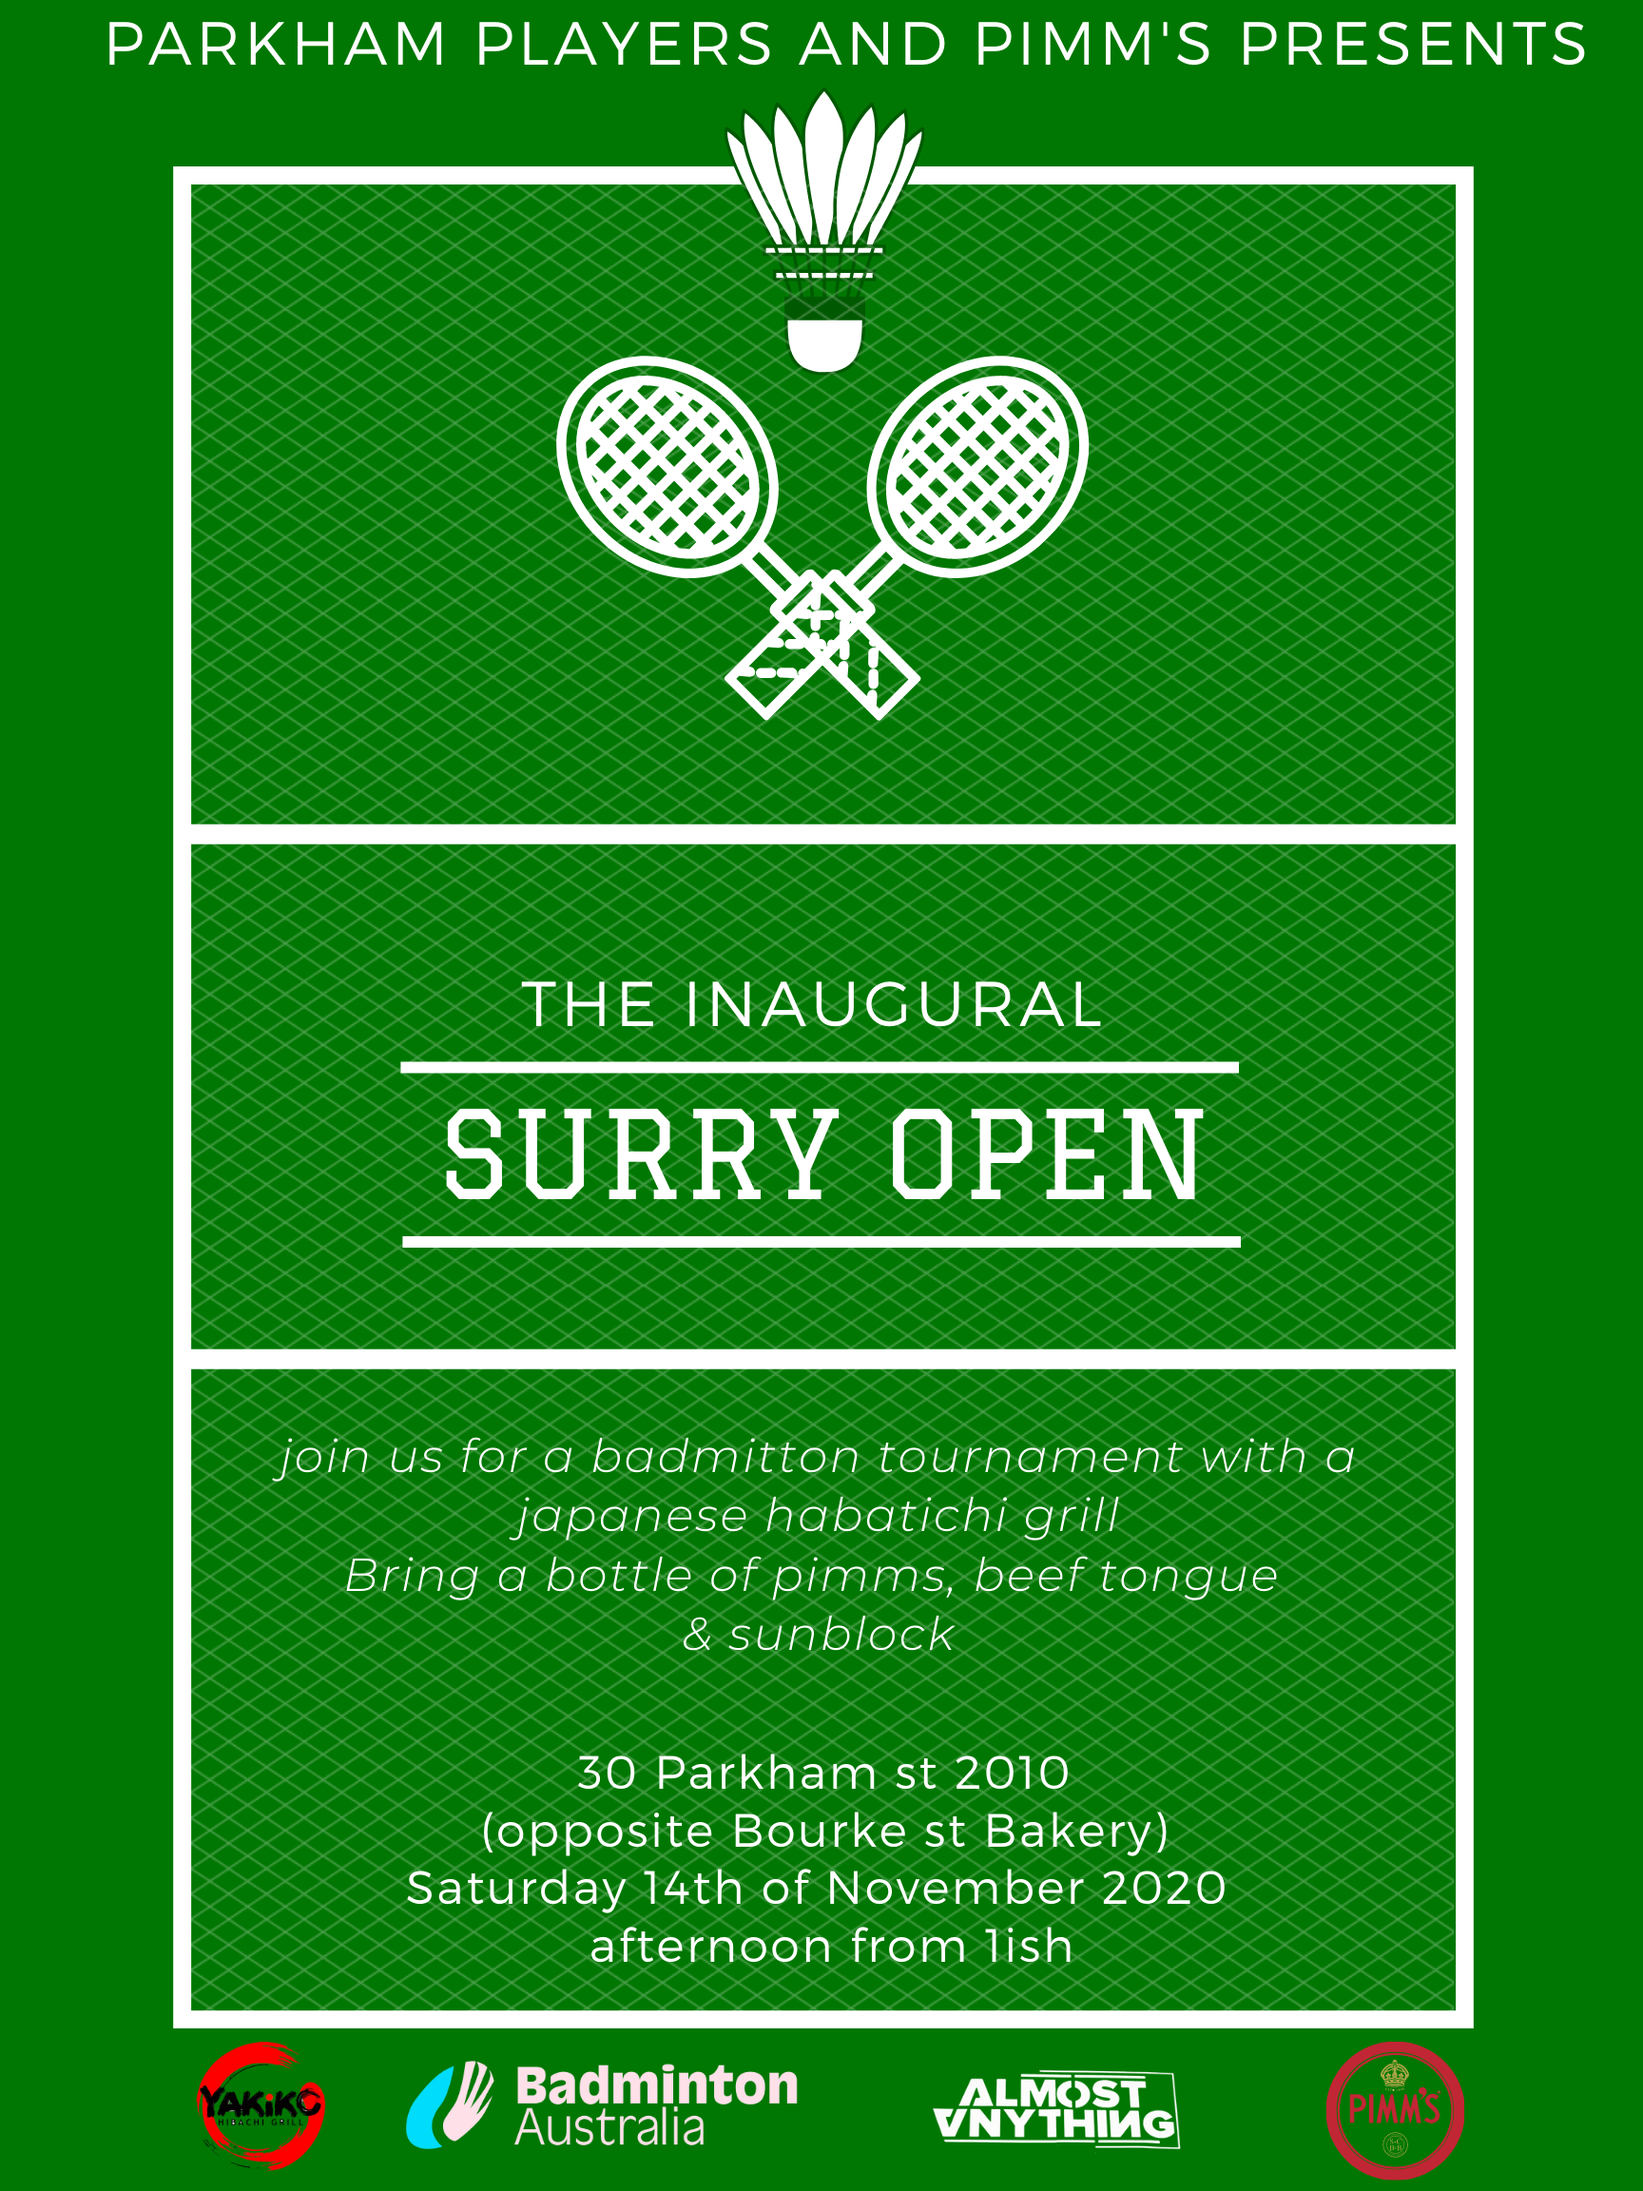
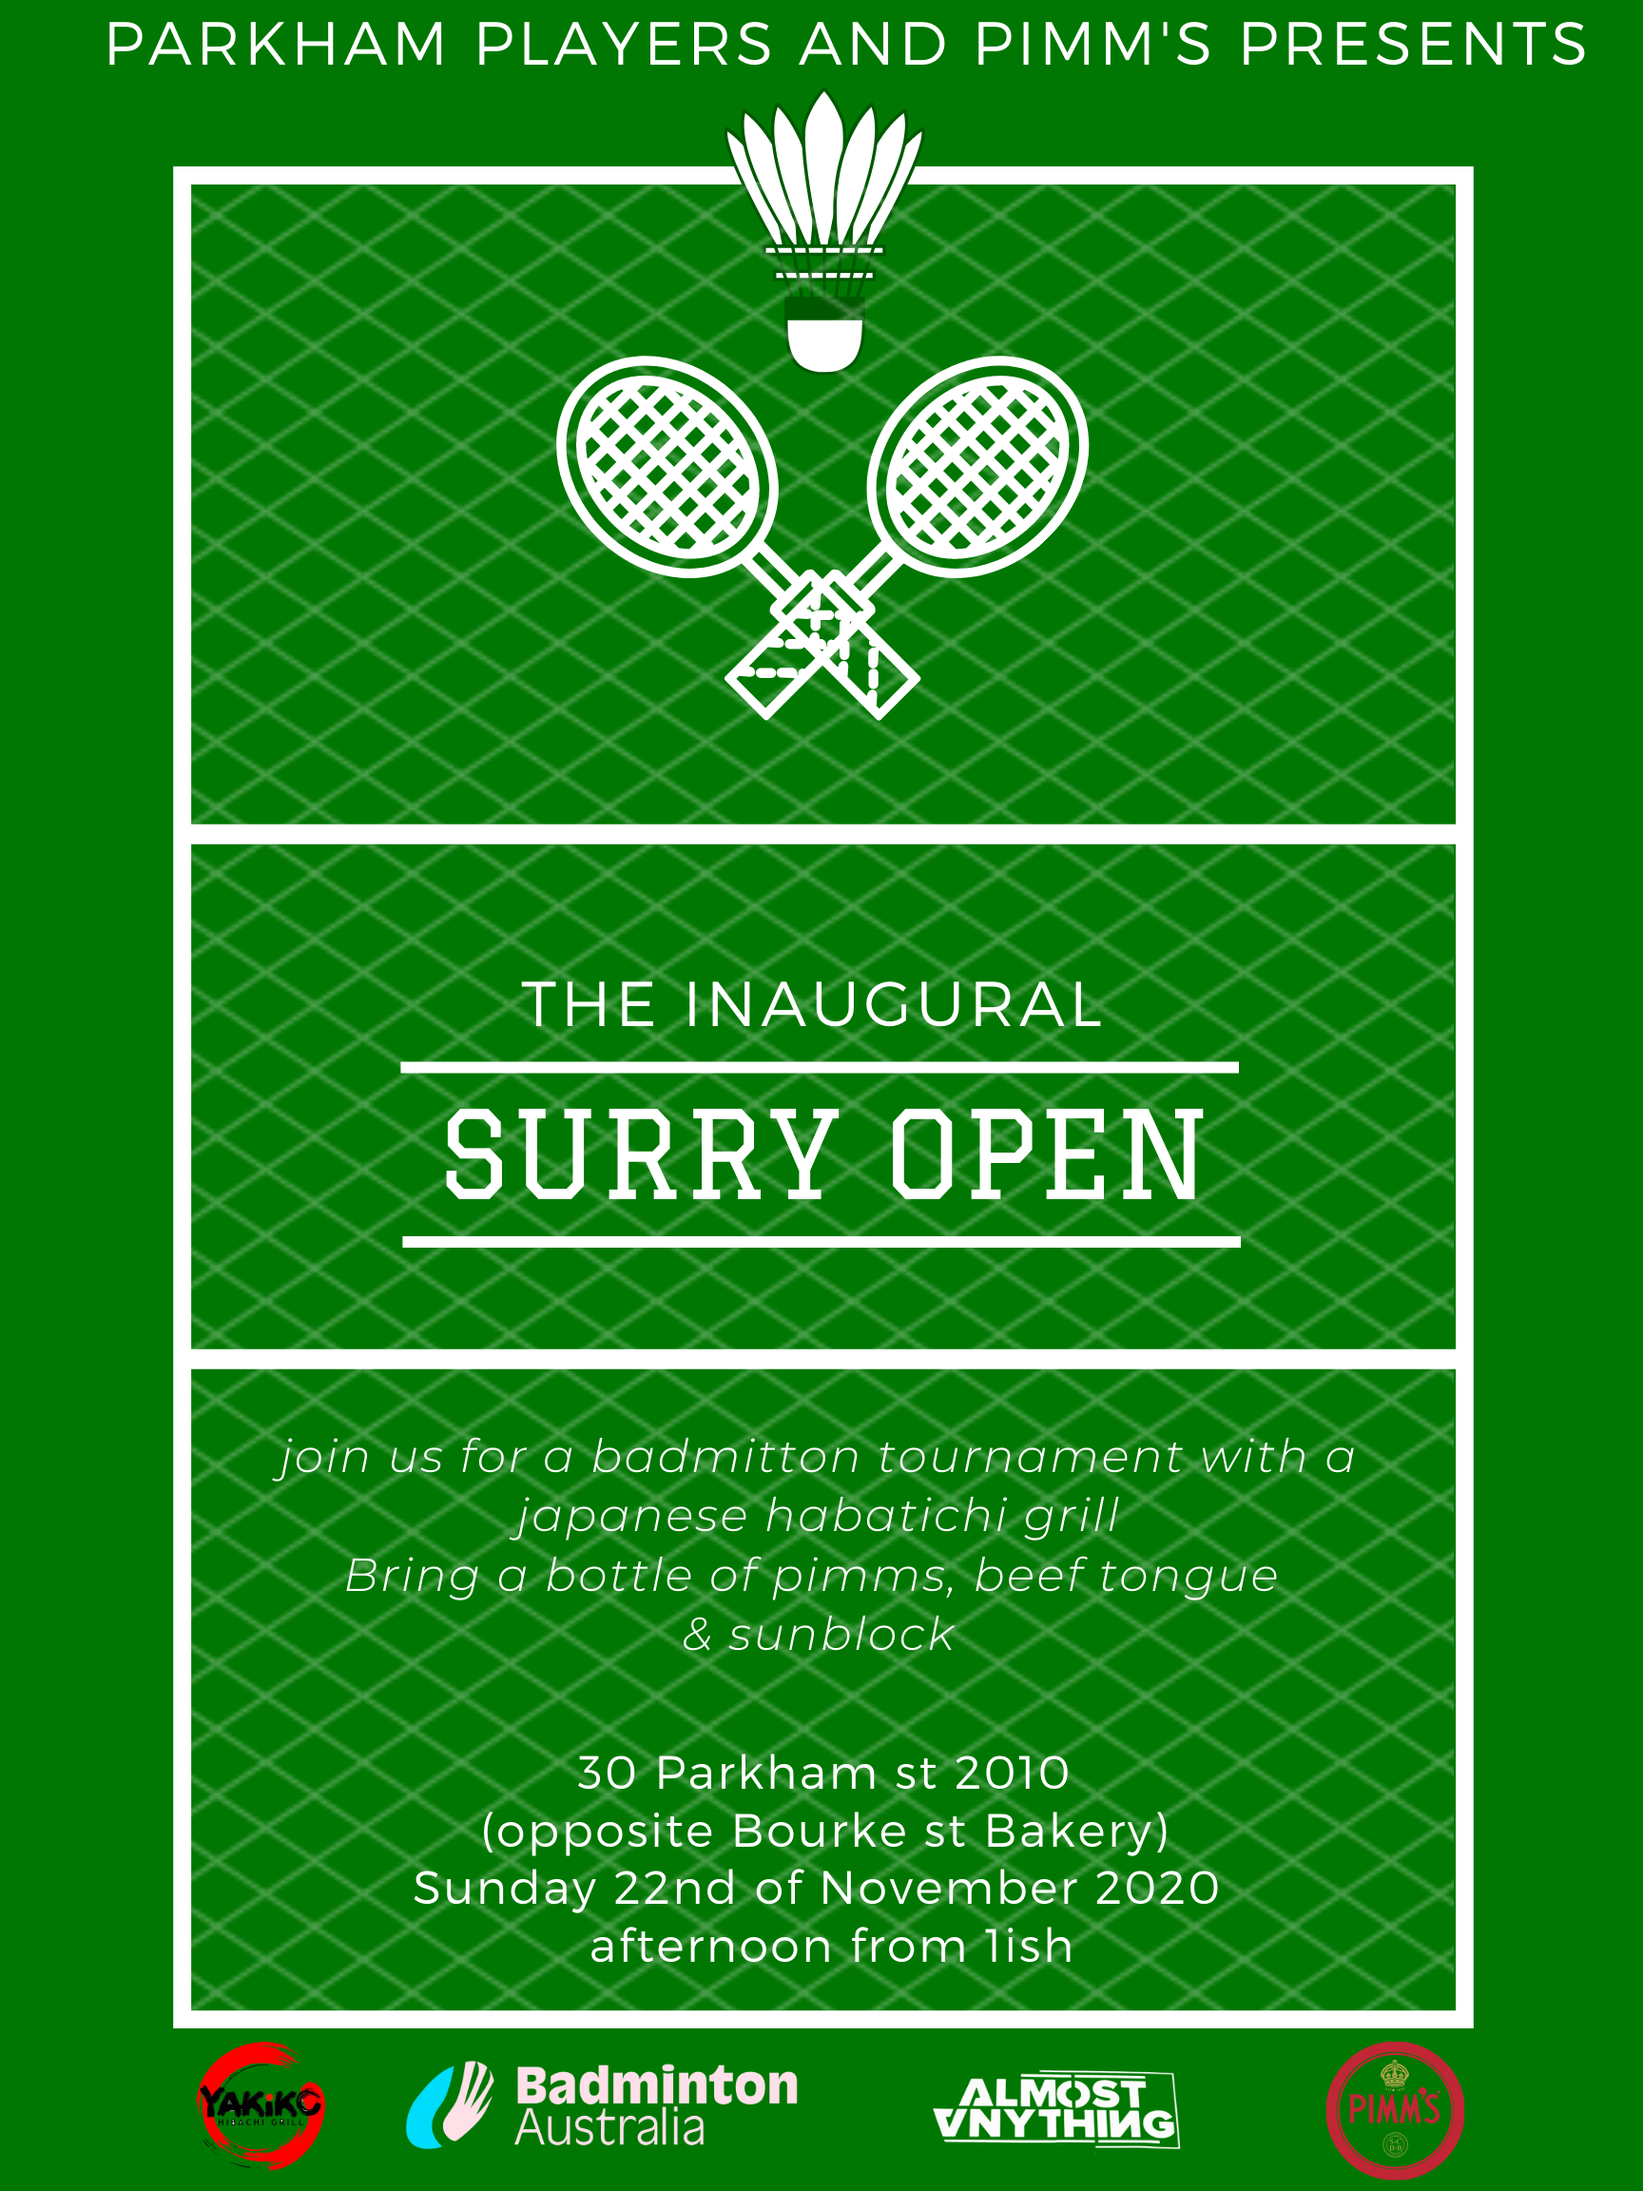
updated to new sunday

Changed region(s): [[0.0938, 0.0625, 0.9062, 0.9375]]

diff --git a/index.html b/index.html
@@ -32,15 +32,18 @@
 
         <div class="description">
           <p><i>
-              join us for a badmitton tournament with a
-              japanese habatichi grill<br />
-              Bring a bottle of pimms, beef tongue
-              & sunblock
+            Join us for a badminton tournament with a
+            japanese hibachi grill<br />
+            Bring a bottle of pimms, beef tongue
+            & sunblock
             </i></p>
-          <p class="address">
-            30 <span class="green">Parkham st 2010</span> <br />
+<a href="https://www.facebook.com/events/391019618602437/?notif_id=1604440411765681&notif_t=plan_admin_added&ref=notif">
+            need more info? <img src="https://cdn.iconscout.com/icon/free/png-64/facebook-logo-2019-1597680-1350125.png" style="width: 18px;" /> </a>
+            <br />
+          <p class="address"><a href="https://goo.gl/maps/2MczyB3M9vqVUMw3A">
+            30 <span class="green">Parkham st 2010</span> <br /></a>
             (opposite Bourke st Bakery)<br />
-            <span class="green">Saturday 14th </span> of November 2020<br />
+            <span class="green">Sunday 22<sup>nd</sup> </span> of November 2020<br />
             afternoon from 1ish<br />
           </p>
         </div>
@@ -113,12 +116,36 @@
 
 
     <section class="bracket-section">
-
+      <div  style="display:none" class="bracket">
+        <div class="col col-1">
+          <div class="team"><span></span></div>
+          <div class="team"><span></span></div>
+          <div class="team"><span></span></div>
+          <div class="team"><span></span></div>
+          <div class="team"><span></span></div>
+          <div class="team"><span></span></div>
+          <div class="team"><span></span></div>
+          <div class="team"><span></span></div>
+        </div>
+        <div class="col col-2">
+          <div class="team"></div>
+          <div class="team"></div>
+          <div class="team"></div>
+          <div class="team"></div>
+        </div>
+        <div class="col col-3">
+          <div class="team"></div>
+          <div class="team"></div>
+        </div>
+        <div class="col col-4">
+          <div class="team"></div>
+        </div>
+      </div>
     </section>
-    <!-- -->
     <script src="./dear.js"></script>
     <!--   <script src="https://unpkg.com/xstate@4/dist/xstate.js"></script>
   <script src="https://unpkg.com/@xstate/inspect"></script> -->
+  
     <script src="./create-bracket.js"></script>
     <script src="./rsvp.js"></script>
     </head>

diff --git a/create-bracket.js b/create-bracket.js
@@ -27,14 +27,21 @@ function populateBracket(teams = input) {
     arr[j].push(teams[i])
   }
 
-  arr[0].length = 8
-  html = ""
-  for (i = 0; i < 8; i++) {
-    html = html + `<div class="team"><span>${arr[0][i] || ""}</span></div>`
-  }
-  html = bracket(html)
+  arr.forEach(array => {
+    array.length = 8
+    html = ""
+    for (i = 0; i < 8; i++) {
+      html = html + `<div class="team"><span>${array[i]}</span></div>`
+    }
+    html = bracket(html)
 
-  document.querySelector("section.bracket-section").innerHTML = html
+    document.querySelector('.bracket').style.display = 'grid'
+    document.querySelectorAll('.col-1 span').forEach((el, i) => {
+      el.innerText = array[i] || ''
+    })
+
+  })
+
   items = Array.from(document.querySelectorAll(".team"))
   maxHeight = items.reduce((a, c) => {
     h = c.getBoundingClientRect().height

diff --git a/style.css b/style.css
@@ -51,9 +51,8 @@ section {
   border-top: 3px solid;
 }
 
-.court>div:last-child,
-.court>div:first-child {
 
+.court>div:first-child {
   height: 30vh;
   max-height: 500px;
 }
@@ -67,9 +66,11 @@ section {
 }
 
 .description {
+  font-size: 0.9em;
   display: flex;
   flex-direction: column;
   justify-content: space-between;
+  min-height: 30vh;max-height: 500px;
 }
 
 .image-symbols {
@@ -97,7 +98,10 @@ section {
   justify-content: center;
 }
 
-.address {}
+.address a {
+  text-decoration: none;
+  color: black;
+}
 
 .green {
   color: var(--main-green)
